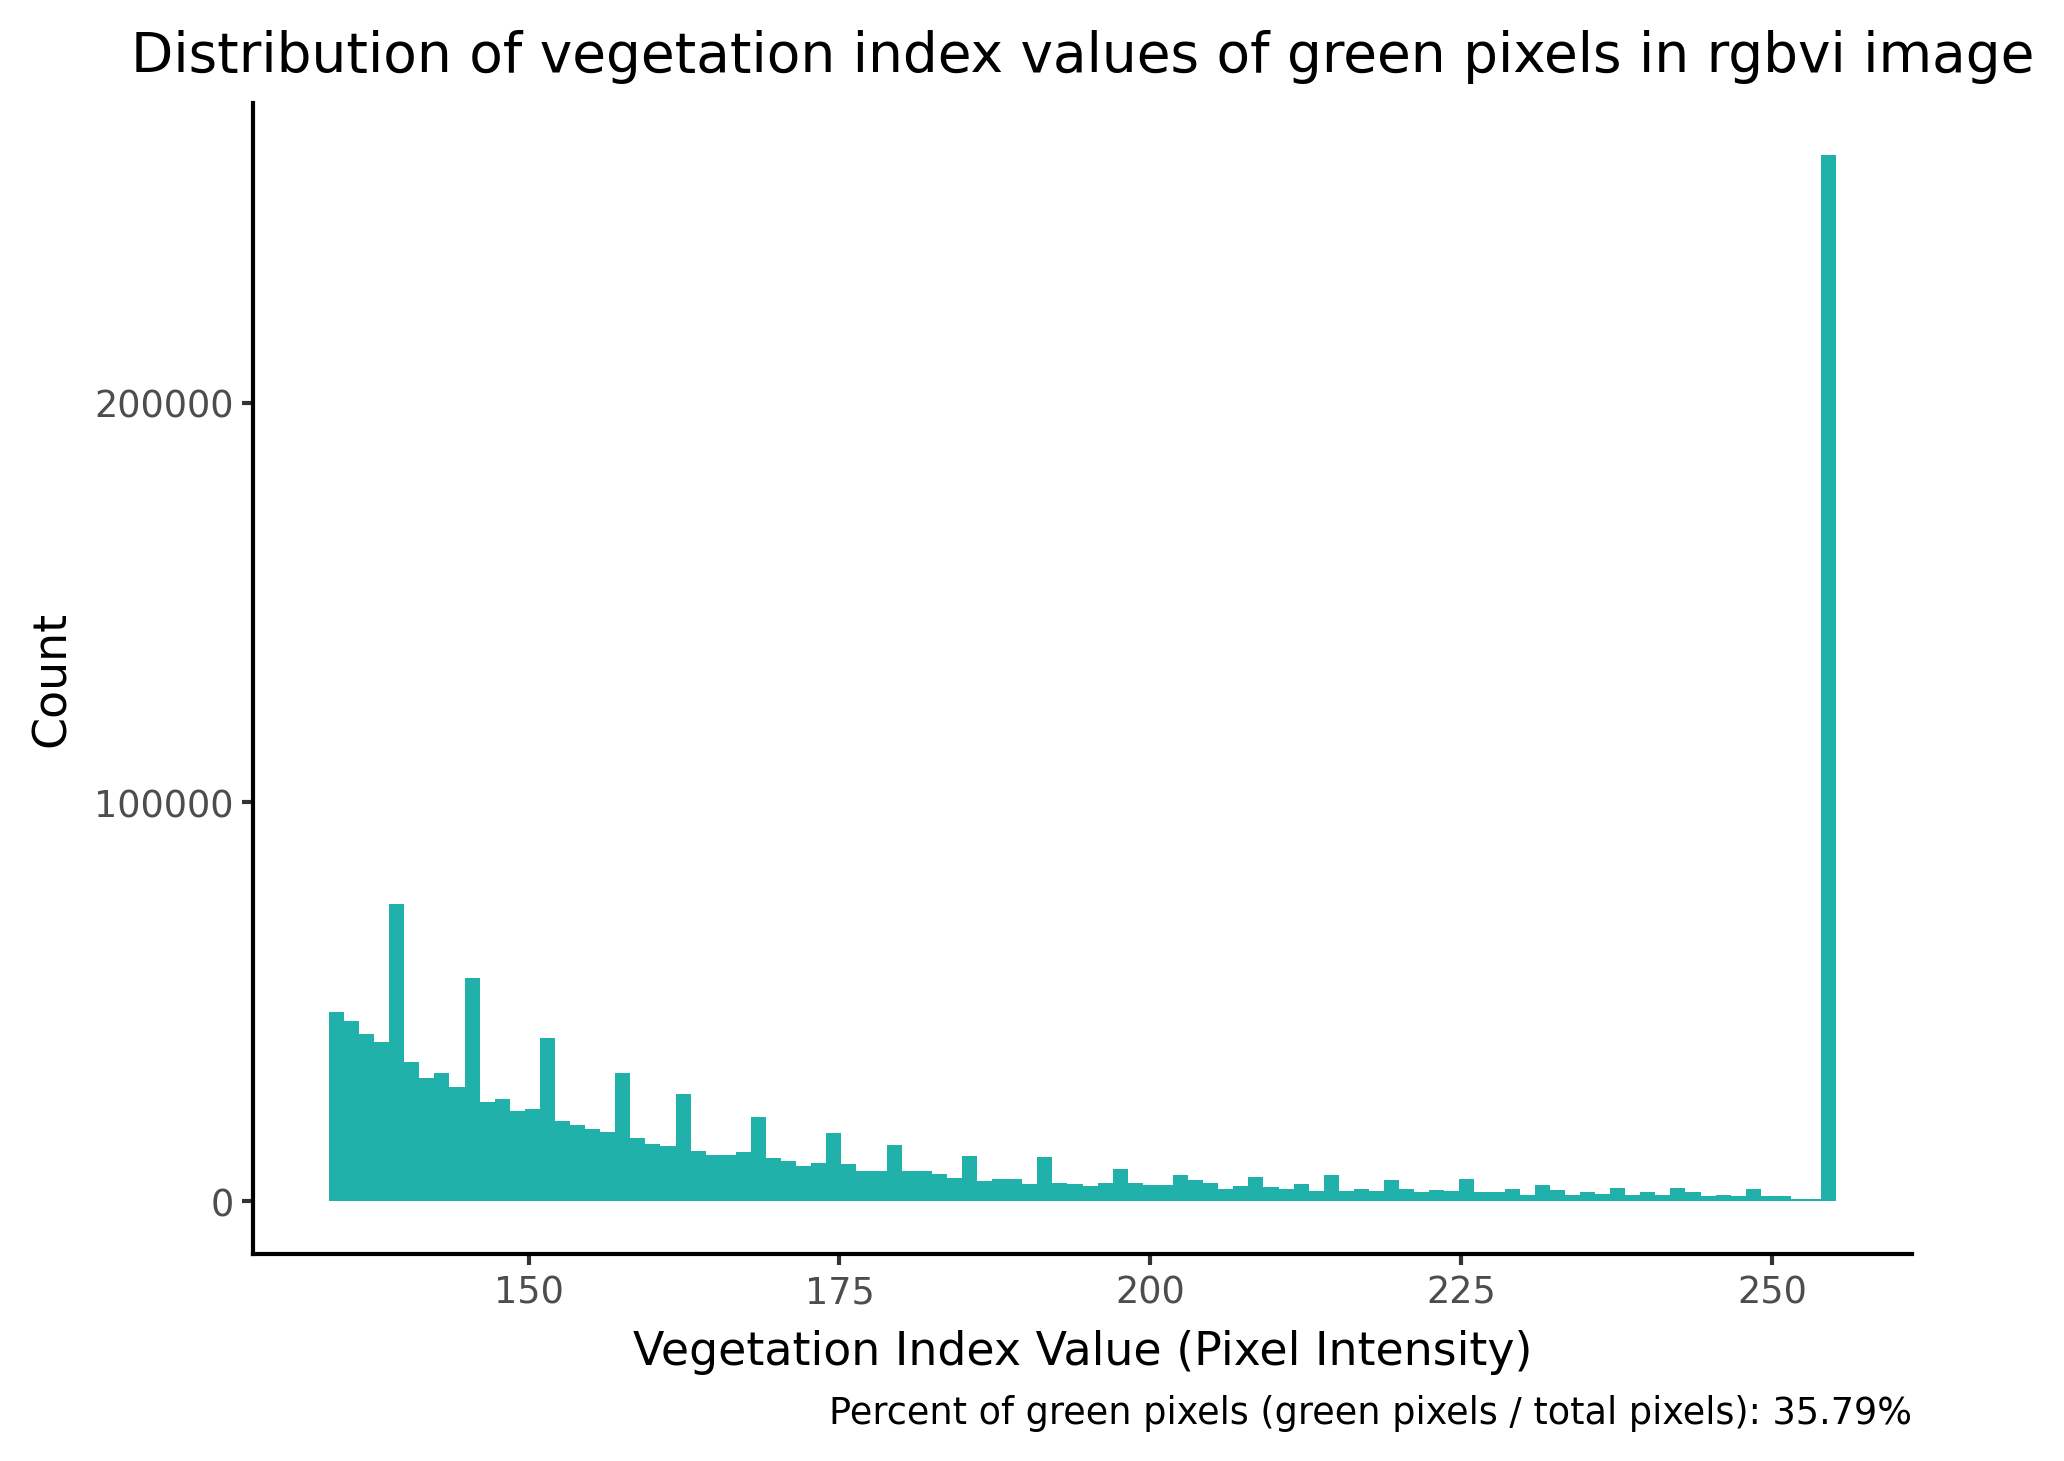
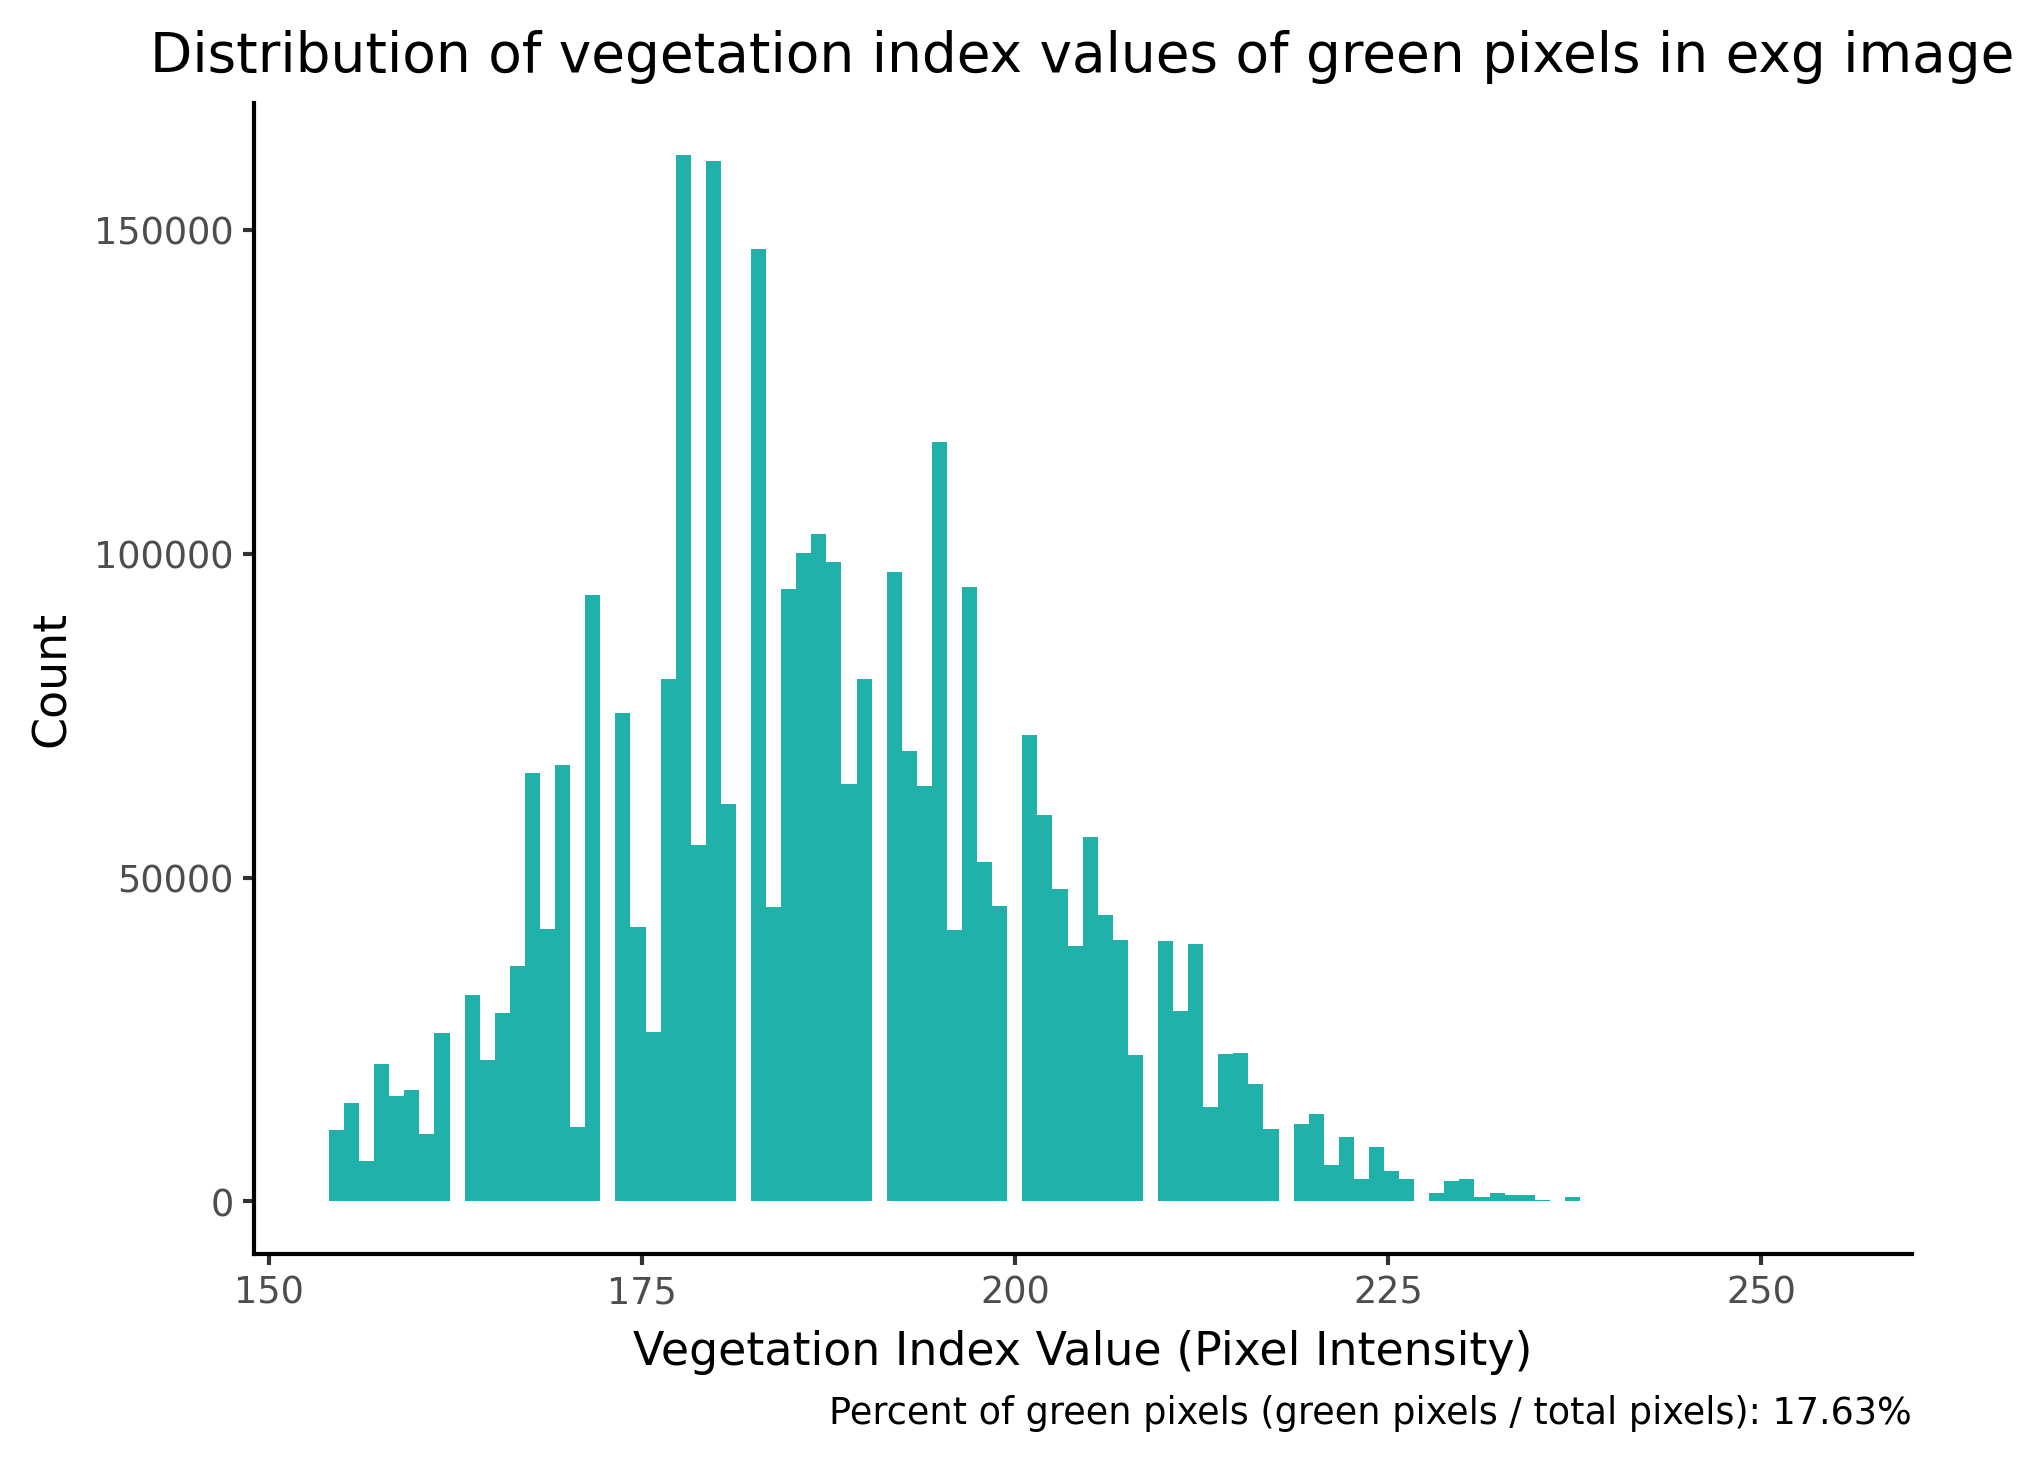
rearranging for clarity

diff --git a/master_script.py b/master_script.py
@@ -15,11 +15,10 @@ def main():
     Determine your parameters here. 
     '''
 
-    # Enter path to input image here.
-    path = 'test_photos_greenhouse/image_2.jpg'
-
-    # Enter output path and filename here.
-    output_path = 'results/master_script_output/example_greenhouse.jpg'
+    # Enter parameters.
+    path = 'test_photos_greenhouse/image_2.jpg' # path to input image
+    output_path = 'results/master_script_output/example_greenhouse.jpg' # output path and filename
+    crop = False # whether your photos need to be cropped or not.
 
     # Determine vegetation index that will be used
     index_type = 'exg' # RGBVI worked well for my quadrat photos, ExG worked well on the willow leaf photos - feel free to experiment
@@ -36,8 +35,6 @@ def main():
     # Or experiment with skimage filters like otsu and median.
     green_threshold = 155 # 135 worked well on quadrat photos. 155 worked well on willow leaf photos. 
 
-    # Determine whether your photos need to be cropped or not. 
-    crop = False
 
     # Run the process
     if crop == False:
